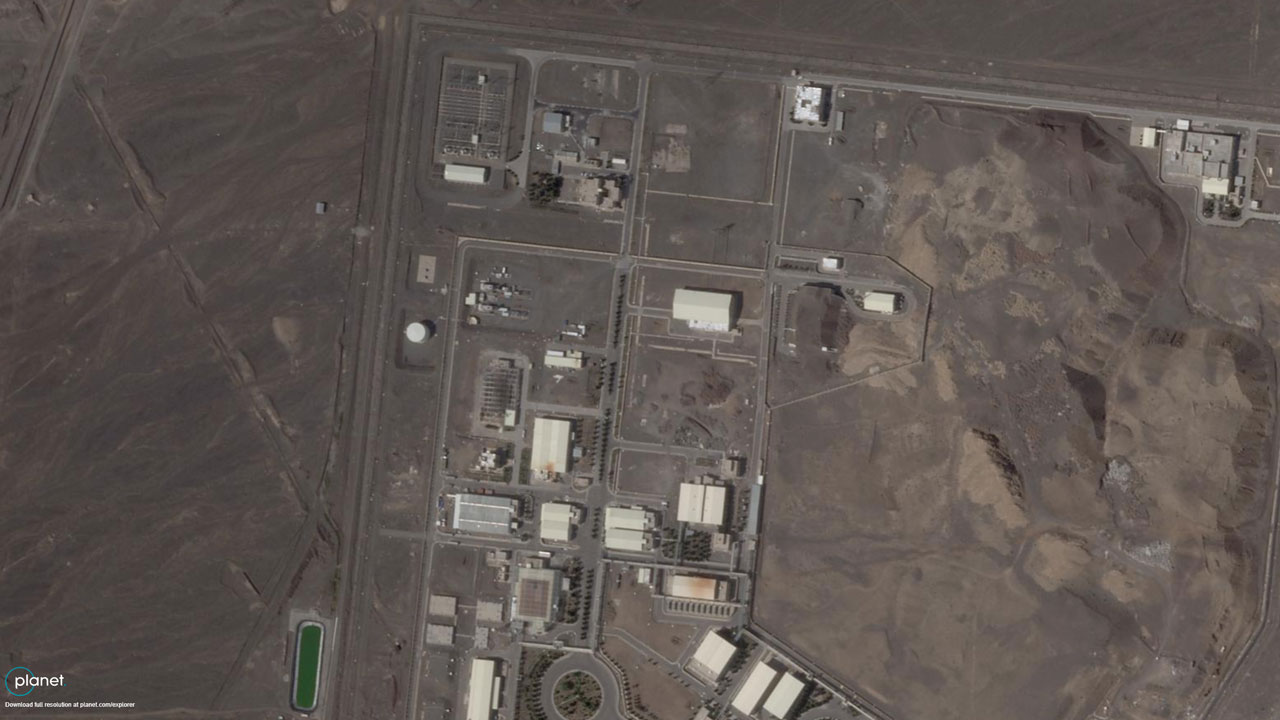
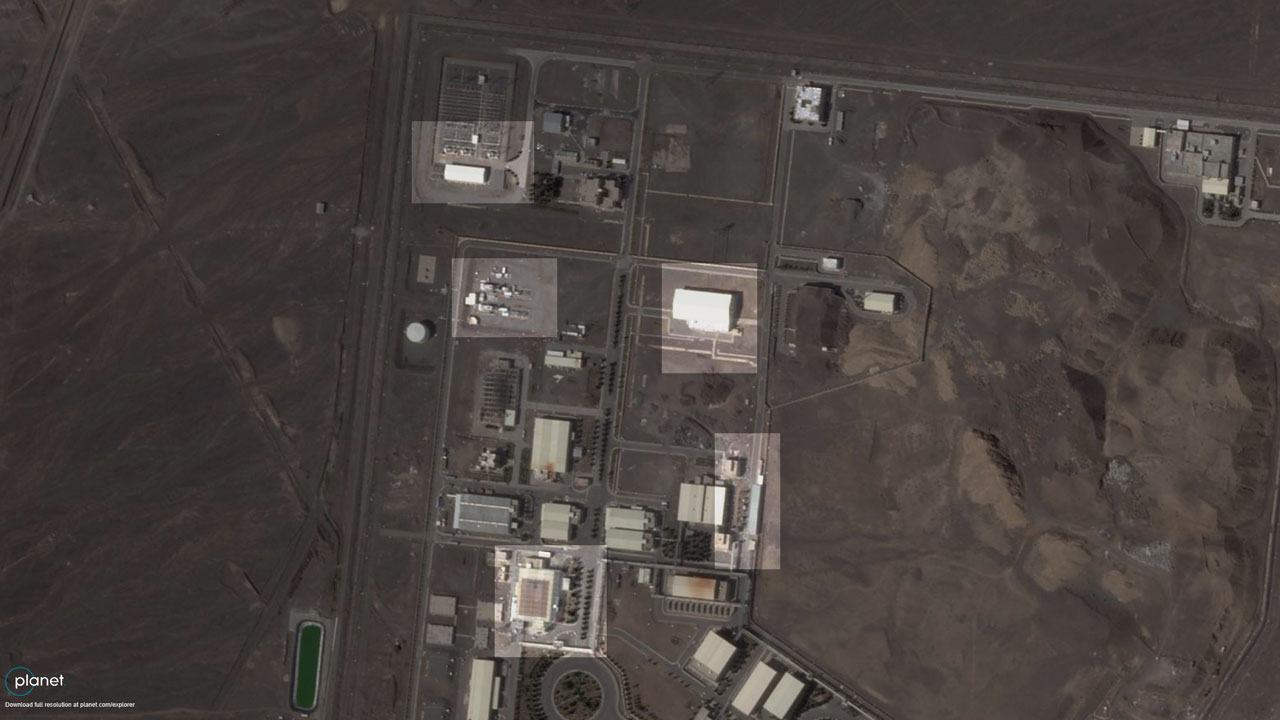
imagery captions and credits

diff --git a/index.html b/index.html
@@ -130,7 +130,7 @@
 
                 </div>
 
-                <figcaption>Caption text goes here.</figcaption>
+                <figcaption>Palestinians moving southward in vehicles loaded with belongings on a coastal road near Nuseirat in the central Gaza Strip. <span class="credit">AFP</span></figcaption>
             </figure>
 
             <h2>Gaza</h2>
@@ -163,7 +163,7 @@
 
                 </div>
 
-                <figcaption>Caption text goes here.</figcaption>
+                <figcaption>Russian President Vladimir Putin and US President Donald Trump shake hands on the podium. <span class="credit">AFP</span></figcaption>
             </figure>
 
             <h2>Ukraine</h2>
@@ -220,9 +220,8 @@
                 </div>
 
                 <figcaption>
-                    The Port of Hodeida has been at the heart of efforts to prevent goods from being shipped in and out
-                    of Yemen.
-                    <span class="credit">CRISIS GROUP / Planet Labs PBC</span>
+                    The U.S. airstrikes considerably damaged or destroyed electrical generators, steam pipes and key infrastructure at the Natanz nuclear facility in June 2025.
+                    <span class="credit">Planet Labs PBC</span>
                 </figcaption>
             </figure>
 
@@ -278,7 +277,7 @@
                 <div class="wide-media">
                     <img src="media/myanmar_hospital.png" alt="Descriptive alt text" />
                 </div>
-                <figcaption>CRISIS GROUP / Planet Labs PBC</figcaption>
+                <figcaption>Satellite imagery shows the aftermath of an airstrike on the Mrauk-U hospital in Myanmar’s Rakhine state.<span class="credit">Planet Labs PBC</span></figcaption>
             </figure>
             <h2>MYANMAR</h2>
             <p>Myanmar is experiencing widespread internal conflict following the collapse of civilian rule and the
@@ -307,7 +306,7 @@
 
                 </div>
 
-                <figcaption>Caption text goes here.</figcaption>
+                <figcaption>First take: People celebrating and waving Syrian revolutionary flags. Second Take:  Rebel fighters burn a picture of the Syrian president on the Hama Governorate building. <span class="credit">AFP</span></figcaption>
             </figure>
 
             <h2>SYRIA</h2>
@@ -336,7 +335,7 @@
                         poster="media/example.jpg"></video>
                 </div>
 
-                <figcaption>Caption text goes here.</figcaption>
+                <figcaption>Wide shot aircraft carrier USS Gerald R. Ford sailing in the North Sea during NATO Neptune Strike 25-3 exercise. <span class="credit">AFP</span></figcaption>
             </figure>
 
             <h2>VENEZUELA AND THE U.S.</h2>

diff --git a/app.js b/app.js
@@ -12,7 +12,7 @@ const scenes = {
       "eth-city-labels": "eth-city-labels",
       "eth-city-dots": "eth-city-dots",
       "massawa-assab": "massawa-assab",
-      "etter-labels": "etter-labels",
+      "ether-labels": "ether-labels",
       "eth-provinces": "eth-provinces",
       "ether-countries": "ether-countries"
     },
@@ -30,7 +30,7 @@ const scenes = {
         { layerKey: "eth-city-labels", to: 0 },
         { layerKey: "eth-city-dots", to: 0 },
         { layerKey: "massawa-assab", to: 0 },
-        { layerKey: "etter-labels", to: 0 },
+        { layerKey: "ether-labels", to: 0 },
         { layerKey: "eth-provinces", to: 0 },
         { layerKey: "ether-countries", to: 0 }
         ]
@@ -49,7 +49,7 @@ const scenes = {
           { layerKey: "eth-city-labels", to: 1 },
           { layerKey: "eth-city-dots", to: 1 },
           { layerKey: "massawa-assab", to: 1 },
-          { layerKey: "etter-labels", to: 1 },
+          { layerKey: "ether-labels", to: 1 },
           { layerKey: "eth-provinces", to: 1 },
           { layerKey: "ether-countries", to: 1 }
         ]
@@ -231,6 +231,15 @@ function initScene(sceneId) {
   function flyCamera(camera, duration = 1400) {
     map.flyTo({ ...camera, duration, essential: true });
   }
+
+  function updateWorldOrderLegend(activeStepId) {
+  const legend = document.getElementById("legend-world-order");
+  if (!legend) return;
+
+  // show only on world-order-2
+  legend.classList.toggle("is-visible", activeStepId === "world-order-2");
+}
+
 
   function activateStep(stepEl) {
     const stepId = stepEl.dataset.step;
